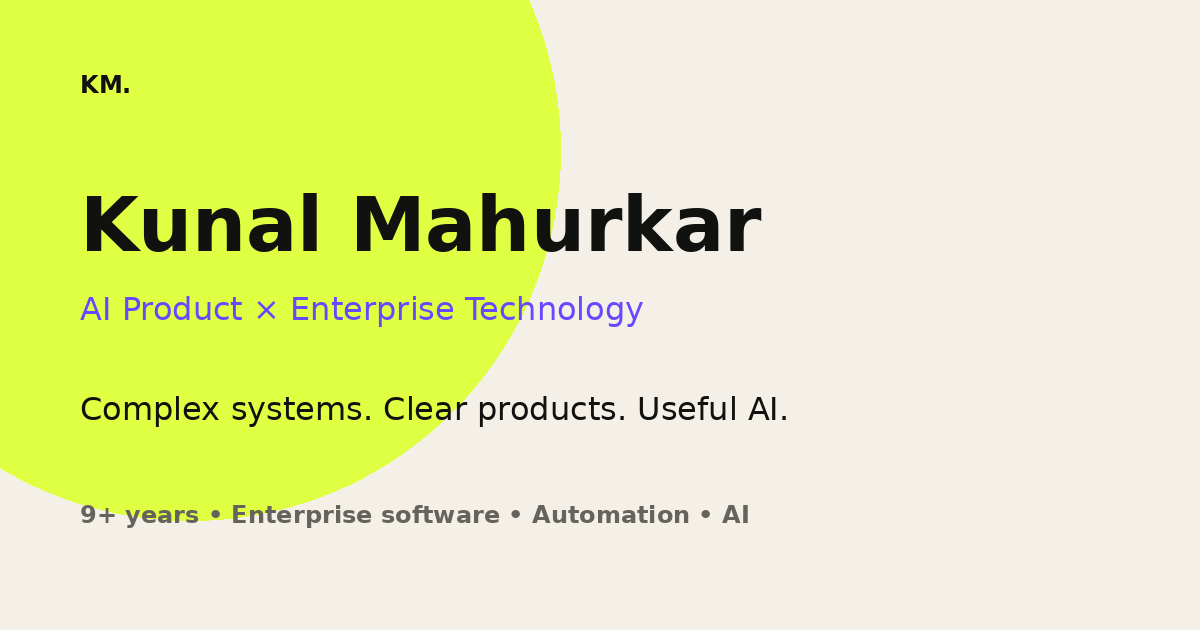
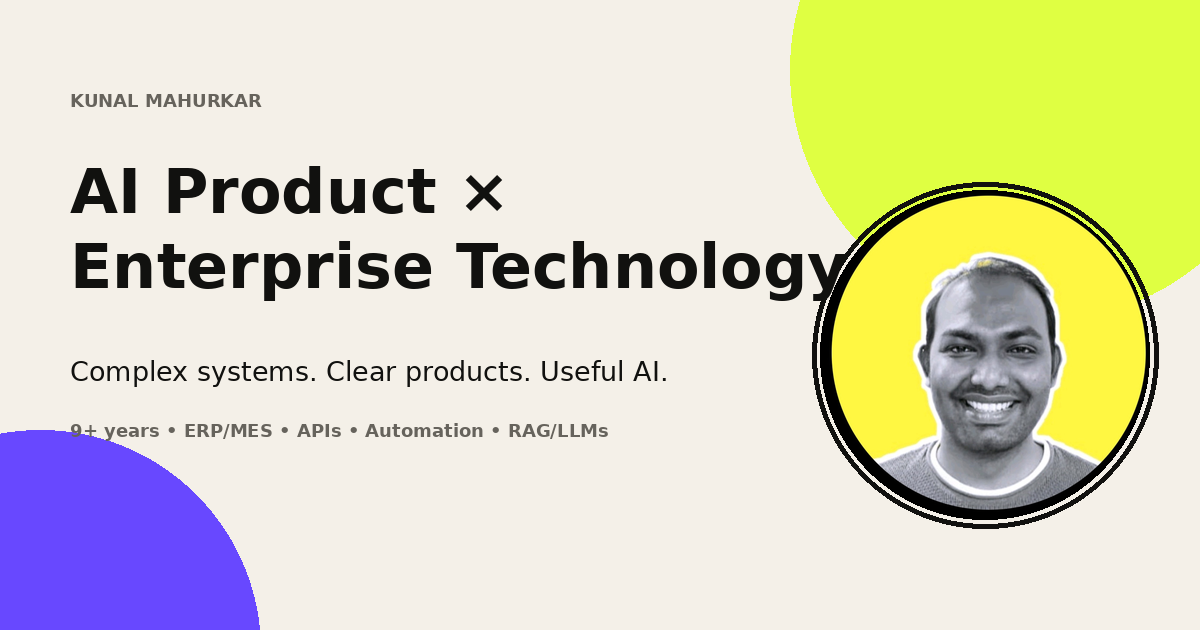
Updated
Updated

diff --git a/index.html b/index.html
@@ -15,8 +15,10 @@
 <meta name="twitter:card" content="summary_large_image">
 <link rel="canonical" href="https://kunalmahurkar.is-a.dev/">
 <link rel="icon" href="favicon.svg" type="image/svg+xml">
+<link rel="preload" as="image" href="kunal-photo.webp" type="image/webp" fetchpriority="high">
 <title>Kunal Mahurkar — AI Product & Enterprise Technology</title>
-<link rel="stylesheet" href="styles.css?v=motion1">
+<link rel="stylesheet" href="styles.css?v=final1">
+<script type="application/ld+json">{"@context":"https://schema.org","@type":"Person","name":"Kunal Mahurkar","url":"https://kunalmahurkar.is-a.dev/","image":"https://kunalmahurkar.is-a.dev/kunal-photo.webp","jobTitle":"Services Software Consultant","sameAs":["https://www.linkedin.com/in/kunal-mahurkar-99988a211"],"knowsAbout":["AI Product Management","Enterprise Software","ERP","MES","APIs","Integrations","Automation","RAG","LLMs"]}</script>
 </head>
 <body>
 <header>
@@ -39,7 +41,16 @@
   <div class="wrap">
     <div class="status">AI Product • Enterprise Software • Automation</div>
     <h1>Complex systems.<br><em>Clear products.</em><br>Useful AI.</h1>
-    <div class="hero-bottom">
+    <div class="hero-bottom hero-bottom-profile">
+      <div class="hero-profile">
+        <div class="portrait-ring">
+          <img src="kunal-photo.webp" alt="Kunal Mahurkar" width="900" height="900" fetchpriority="high" decoding="async">
+        </div>
+        <div class="profile-caption">
+          <strong>Kunal Mahurkar</strong>
+          <span>Enterprise software → AI-first product leadership</span>
+        </div>
+      </div>
       <p class="hero-copy">I’m <strong>Kunal Mahurkar</strong>. For 9+ years I’ve worked where customers, enterprise software and engineering meet — turning difficult workflows and technical constraints into solutions people can actually use. Now I’m bringing that experience into <strong>AI-first product leadership</strong>.</p>
       <div class="actions">
         <a class="btn primary" href="#recruiter">Hiring manager? Start here →</a><a class="btn" href="#work">Explore my work ↓</a>
@@ -59,7 +70,7 @@
 
 <section id="recruiter" class="recruiter">
 <div class="wrap split"><div class="label">00 — 30-second view</div><div>
-<h2>Why Kunal, in three signals.</h2>
+<h2>Why Kunal, in three signals.</h2><p class="role-link-note">Tip: recruiters can open a role-specific view using <code>?role=ai-product</code>, <code>?role=technical-product</code>, <code>?role=product-ops</code> or <code>?role=customer-product</code>.</p>
 <div class="recruiter-grid">
 <div class="signal"><span>01</span><h3>Enterprise depth</h3><p>9+ years inside complex customer, platform, ERP/MES, API and integration environments.</p></div>
 <div class="signal"><span>02</span><h3>Product judgment</h3><p>I frame problems, align stakeholders, manage trade-offs, validate releases and learn from user feedback.</p></div>
@@ -245,5 +256,5 @@
 <form class="form" id="form"><input id="input" autocomplete="off" placeholder="Ask about Kunal..." aria-label="Ask about Kunal"><button>Send</button></form>
 </div>
 <script src="script.js"></script>
-<script src="motion.js?v=motion1"></script>
+<script src="motion.js?v=final1"></script>
 </body></html>

diff --git a/styles.css b/styles.css
@@ -163,3 +163,41 @@ body.aura-on .cursor-aura{opacity:.85}
     animation:none!important;transform:none!important;opacity:1!important;transition:none!important
   }
 }
+
+/* Final identity layer */
+.hero-bottom-profile{
+  grid-template-columns:180px minmax(0,1fr) minmax(280px,.8fr);
+  align-items:start;
+  gap:28px;
+}
+.hero-profile{display:flex;flex-direction:column;gap:12px;align-items:flex-start}
+.portrait-ring{
+  width:154px;height:154px;border-radius:50%;padding:6px;
+  background:conic-gradient(from 45deg,var(--a),var(--a2),var(--a),var(--a2),var(--a));
+  box-shadow:0 18px 50px rgba(17,17,15,.16);
+  position:relative;
+}
+.portrait-ring:after{
+  content:"";position:absolute;inset:-10px;border-radius:50%;
+  border:1px solid color-mix(in srgb,var(--a2) 26%,transparent);
+  animation:portraitOrbit 8s linear infinite;
+}
+.portrait-ring img{
+  width:100%;height:100%;display:block;object-fit:cover;border-radius:50%;
+  background:#111;
+}
+.profile-caption{display:grid;gap:2px}.profile-caption strong{font-size:13px}.profile-caption span{font-size:11px;color:var(--m);line-height:1.35}
+.role-link-note{margin:-10px 0 18px;color:var(--m);font-size:13px}.role-link-note code{font-size:11px;border:1px solid var(--line);background:var(--s);padding:3px 5px;border-radius:7px}
+@keyframes portraitOrbit{to{transform:rotate(360deg)}}
+@media(max-width:900px){
+  .hero-bottom-profile{grid-template-columns:150px 1fr;grid-template-areas:"profile copy" "actions actions"}
+  .hero-profile{grid-area:profile}.hero-bottom-profile>.hero-copy{grid-area:copy}.hero-bottom-profile>.actions{grid-area:actions}
+}
+@media(max-width:600px){
+  .hero-bottom-profile{grid-template-columns:1fr;grid-template-areas:"profile" "copy" "actions";gap:20px}
+  .hero-profile{flex-direction:row;align-items:center}
+  .portrait-ring{width:108px;height:108px;flex:0 0 108px}
+  .profile-caption strong{font-size:14px}.profile-caption span{font-size:11px}
+  .role-link-note{display:none}
+}
+@media(prefers-reduced-motion:reduce){.portrait-ring:after{animation:none!important}}

diff --git a/404.html b/404.html
@@ -1,0 +1,2 @@
+<!doctype html><html lang="en" data-theme="cream"><head><meta charset="utf-8"><meta name="viewport" content="width=device-width,initial-scale=1"><meta name="robots" content="noindex"><title>404 — Kunal Mahurkar</title><link rel="stylesheet" href="styles.css?v=final1"><link rel="icon" href="favicon.svg"></head><body>
+<main style="min-height:100vh;display:grid;place-items:center;padding:24px"><section style="border:0;padding:0;width:min(900px,100%)"><div class="contact-box"><div class="label">404 — Wrong turn</div><h2>This page doesn’t exist.<br><em style="font-style:normal;color:var(--a)">The portfolio does.</em></h2><p class="lede">Head back to the work, case studies and product story.</p><div class="actions"><a class="btn accent" href="index.html">Back to portfolio →</a><a class="btn invert" href="index.html#work">See the work ↓</a></div></div></section></main></body></html>

diff --git a/motion.js b/motion.js
@@ -152,4 +152,20 @@
       panel.classList.add("motion-swap");
     });
   });
+
+  // Role-specific deep links
+  const roleParam = new URLSearchParams(window.location.search).get("role");
+  const roleMap = {
+    "ai-product":"ai",
+    "technical-product":"technical",
+    "product-ops":"ops",
+    "customer-product":"customer"
+  };
+  if (roleParam && roleMap[roleParam]) {
+    const target = document.querySelector(`.role-tab[data-role="${roleMap[roleParam]}"], .role-tab[data-r="${roleMap[roleParam]}"], .role-tab[data-key="${roleMap[roleParam]}"]`);
+    if (target) {
+      window.setTimeout(() => target.click(), 100);
+    }
+  }
+
 })();
